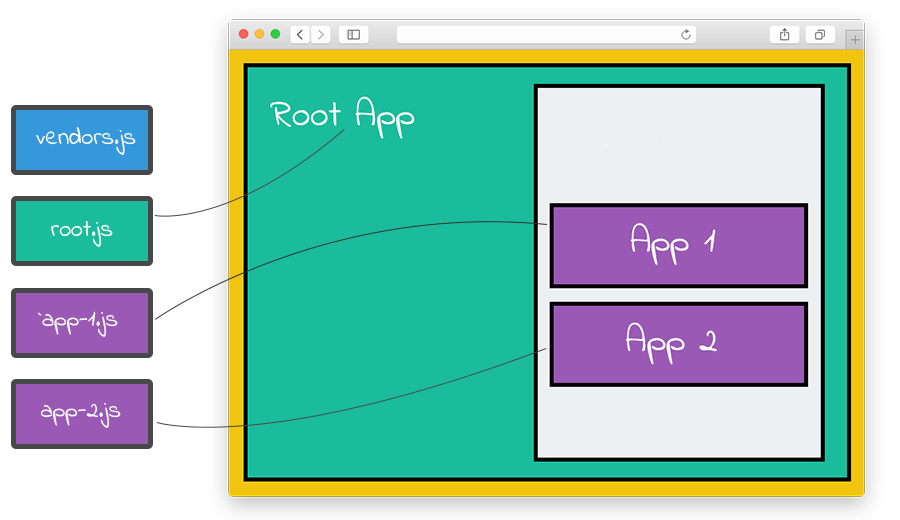
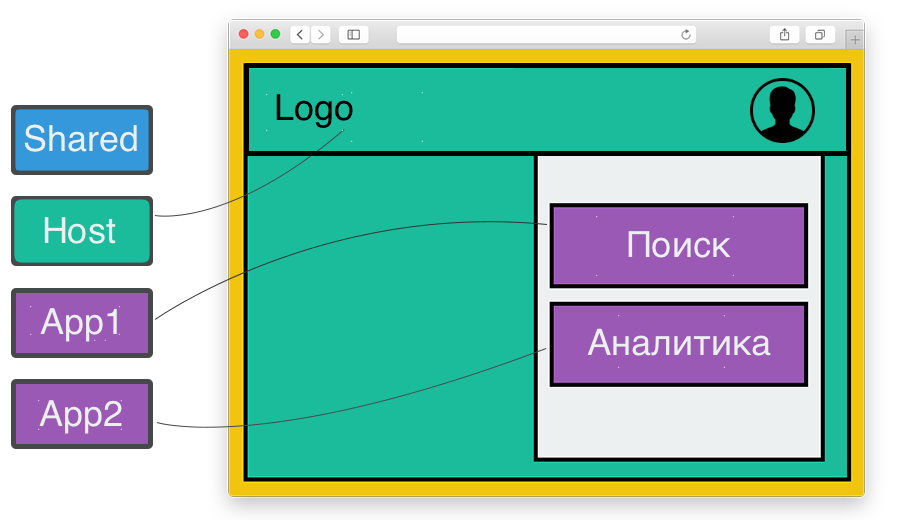
qr-codes

diff --git a/slides/microfrontend/index.html b/slides/microfrontend/index.html
@@ -22,11 +22,11 @@
 				</section>
 				<section>
 					<section>
-						<h2>Коротко о себе</h2>
+						<h2>Кто этот парень?</h2>
 					</section>
 					<section>
 						<h3>Артём Халецкий</h3>
-						<p class="fragment">Веб-разработчик<br/><br/></p>
+						<p class="fragment">Главный разработчик в Иннотех<br/><br/></p>
 						<p class="fragment">other 10 лет опыта,</p>
 						<p class="fragment">пишу на React для веба,</p>
 						<p class="fragment">на React Native для мобилок,</p>
@@ -41,7 +41,8 @@
 					</section>
 					<section>
 						<ol>
-							<li>Зачем нам микрофронтенды?</li>
+							<li>Что такое микрофронтенды?</li>
+							<li class="fragment">Зачем они нам?</li>
 							<li class="fragment">Обзор возможных решений</li>
 							<li class="fragment">Webpack Module Federation</li>
 							<li class="fragment">Demo</li>
@@ -51,53 +52,61 @@
 				</section>
 
 				<section>
-				<section>
-					<h2>1. Зачем нам микрофронтенды?</h2>
-				</section>
-				<section data-transition="zoom">
-					<p>Если у вас над проектом работает одна команда -
-						<span style="display: inline-block;" class="fragment"> НЕЗАЧЕМ</span>
-					</p>
-					<p class="fragment">
-						<img height="238" data-src="assets/paraparapam.png" alt="paraparapam">
-					</p>
-				</section>
-				<section>
-				<p class="fragment">Но, если параллельно работают несколько команд, тогда есть плюсы:</p>
-				<ul>
-					<li class="fragment">Слабая связанность</li>
-					<li class="fragment">Меньше кодовая база - проще поддерживать даже новичкам (1 репо - 1 сервис)</li>
-					<li class="fragment">Быстрая сборка и деплой</li>
-					<li class="fragment">Проще тестировать (независимо от других команд)</li>
-				</ul>
-				</section>
-				<section>
-					<ul>
-						<li>Изоляция ошибок - приложение не падает полностью</li>
-						<li class="fragment">Легко делать частичный релиз или проводить A/B тестирование</li>
-						<li class="fragment">Каждый сервис можно писать на разных фреймворках и языках</li>
-					</ul>
-				</section>
-				<section>
-					<p>Есть одно НО, о котором нужно помнить.</p>
-					<p class="fragment">
-						У микрофронтендов нет полной изоляции -
-						<span style="display: inline-block;" class="fragment fade-right"> общий дом,</span>
-						<span style="display: inline-block;" class="fragment fade-right"> события,</span>
-						<span style="display: inline-block;" class="fragment fade-right"> event loop,</span>
-						<span style="display: inline-block;" class="fragment fade-right"> адресная строка.</span>
-					</p>
-				</section>
-				</section>
-
-				<section>
 					<section>
-						<h2>2. Обзор возможных решений</h2>
+						<h2>Что такое микрофронтенды?</h2>
 					</section>
 					<section>
 						<p>
 							<img data-src="assets/code-splitting.png" alt="code-splitting">
 						</p>
+						<p class="fragment">
+							Как микросервисы, только на фронте
+						</p>
+					</section>
+				</section>
+				<section>
+					<section>
+						<h2>Зачем они нам?</h2>
+					</section>
+					<section data-transition="zoom">
+						<p>Если над проектом работает один разработчик или одна команда
+							<span style="display: inline-block;" class="fragment">НЕЗАЧЕМ</span>
+						</p>
+						<p class="fragment">
+							<img height="238" data-src="assets/paraparapam.png" alt="paraparapam">
+						</p>
+					</section>
+					<section>
+					<p class="fragment">Если параллельно работают <br/> несколько команд, тогда есть плюсы:</p>
+					<ul>
+						<li class="fragment">Слабая связанность, как команд так и кода</li>
+						<li class="fragment">Меньше кодовая база - проще поддерживать даже новичкам </li>
+						<li class="fragment">Быстрая сборка и деплой</li>
+						<li class="fragment">Проще тестировать (независимо от других команд)</li>
+					</ul>
+					</section>
+					<section>
+						<ul>
+							<li>Изоляция ошибок - приложение не падает полностью</li>
+							<li class="fragment">Легко делать частичный релиз или проводить A/B тестирование</li>
+							<li class="fragment">Каждый сервис можно писать на разных фреймворках и языках</li>
+						</ul>
+					</section>
+					<section>
+						<p>Есть одно НО, о котором нужно помнить.</p>
+						<p class="fragment">
+							У микрофронтендов нет полной изоляции
+							<span style="display: inline-block;" class="fragment fade-right"> общий дом,</span>
+							<span style="display: inline-block;" class="fragment fade-right"> события,</span>
+							<span style="display: inline-block;" class="fragment fade-right"> event loop,</span>
+							<span style="display: inline-block;" class="fragment fade-right"> адресная строка.</span>
+						</p>
+					</section>
+				</section>
+
+				<section>
+					<section>
+						<h2>Обзор возможных решений</h2>
 					</section>
 					<section>
 						<ul>
@@ -111,7 +120,7 @@
 							<li class="fragment">Linked Spa Pages (<a href="https://nextjs.org/docs/pages/building-your-application/deploying/multi-zones">NextJS Multi Zones</a>)</li>
 							<li class="fragment"><a href="https://single-spa.js.org/">Single SPA</a> like Frameworks (<a href="https://piral.io/">Piral</a>, <a href="https://frint.js.org/">Frint</a>, <a href="https://ragu-framework.github.io/">Ragu</a>)</li>
 							<li class="fragment">Webpack Module Federation</li>
-							<li class="fragment">Что-то своё (долго, дорого, ох...но) </li>
+							<li class="fragment">Что-то своё (долго, дорого, ) </li>
 						</ul>
 					</section>
 					<section>
@@ -138,7 +147,7 @@
 
 				<section>
 					<section>
-						<h2>3. Webpack Module Federation</h2>
+						<h2>Webpack Module Federation</h2>
 					</section>
 					<section>
 						<h2>Кто использует?</h2>
@@ -186,11 +195,13 @@
 						<h2>Диаграммы</h2>
 					</section>
 					<section>
+						Host и Remote приложения
 						<p>
 							<img data-src="assets/host-remote.png" alt="host-remote">
 						</p>
 					</section>
 					<section>
+						Shared modules
 						<p>
 							<img data-src="assets/diagram-mf.png" alt="diagram-mf">
 						</p>
@@ -201,6 +212,25 @@
 					<section data-visibility="hidden">
 						<p>Host - микрофронт, который загружается первым и может подключать модули из других микрофронтов.</p>
 						<p class="fragment">Remote - микрофронт, который предоставляет модули, но так же как и Host, может подключать модули из других Remote.</p>
+					</section>
+
+					<section>
+						<h3>Remote config</h3>
+						<pre>
+							<code class="hljs javascript" data-trim data-line-numbers="|2|3|4-6|7-10">
+								new webpack.container.ModuleFederationPlugin({
+									name: 'app1',
+									filename: 'remoteEntry.js',
+									exposes: {
+										'./Button': './src/components/Button.js',
+									},
+									shared: {
+										react: { singleton: true },
+										'react-dom': { singleton: true },
+									},
+								}),
+							</code>
+						</pre>
 					</section>
 					<section>
 						<h3>Host config</h3>
@@ -215,24 +245,6 @@
 									shared: {
 										react: { singleton: true, eager: true },
 										'react-dom': { singleton: true, eager: true },
-									},
-								}),
-							</code>
-						</pre>
-					</section>
-					<section>
-						<h3>Remote config</h3>
-						<pre>
-							<code class="hljs javascript" data-trim data-line-numbers="|2|3|4-6|7-10">
-								new webpack.container.ModuleFederationPlugin({
-									name: 'app1',
-									filename: 'remoteEntry.js',
-									exposes: {
-										'./Button': './src/components/Button.js',
-									},
-									shared: {
-										react: { singleton: true },
-										'react-dom': { singleton: true },
 									},
 								}),
 							</code>
@@ -258,31 +270,54 @@
 				</section>
 
 				<section>
-					<h2 class="r-fit-text">4. Demo</h2>
+					<h2 class="r-fit-text">Demo</h2>
 					<a href="https://github.com">https://github.com</a>
 				</section>
 
 				<section>
 					<section>
-						<h2>5. Полезные ссылки</h2>
+						<h2>Полезные ссылки</h2>
 					</section>
 					<section>
-						<ul>
-							<li><a href="https://single-spa.js.org/docs/examples">single-spa examples</a></li>
-							<li class="fragment"><a href="https://github.com/module-federation/module-federation-examples">webpack module-federation examples</a></li>
-							<li class="fragment"><a href="https://github.com/jherr/create-mf-app">create-mf-app cli</a></li>
-							<li class="fragment"><a href="https://github.com/module-federation/federation-dashboard">module-federation dashboard</a></li>
-							<li class="fragment"><a href="https://github.com/originjs/vite-plugin-federation">vite federation</a></li>
-							<li class="fragment"><a href="https://github.com/module-federation/rollup-federation">rollup federation</a></li>
-						</ul>
+						<div>
+							<a href="https://github.com/jherr/create-mf-app">CLI для создания module-federation приложений</a>
+						</div><br/>
+
+						<div class="fragment">
+							<a href="https://github.com/module-federation/federation-dashboard">Dashboard для MF приложений</a>
+						</div><br/>
+						<div class="fragment">
+							Примеры:<br/>
+							<a href="https://single-spa.js.org/docs/examples">single spa</a><br/>
+							<a href="https://github.com/module-federation/module-federation-examples">webpack module-federation</a>
+						</div><br/>
+
+						<div class="fragment">
+							Реализация Module Federation в других сборщиках
+							<a href="https://github.com/originjs/vite-plugin-federation">vite federation</a><br/>
+							<a href="https://github.com/module-federation/rollup-federation">rollup federation</a><br/>
+						</div>
+
 					</section>
 				</section>
 				<section>
-					<h2>Есть вопросы?</h2>
+					<h2>Есть вопросы к Артёму?</h2>
 				</section>
 				<section>
 					<h2>Спасибо, Orel Codes!</h2>
-					qr-код
+					<br/>
+					<div style="display: inline-block; width: 29%;">
+						Презентация:<br/><br/>
+						<img data-src="assets/qr-code-slides.gif" alt="qr-code">
+					</div>
+					<div style="display: inline-block; width: 29%;">
+						Демо:<br/><br/>
+						<img data-src="assets/qr-code-demo.gif" alt="qr-code">
+					</div>
+					<div style="display: inline-block; width: 29%;">
+						Новости ИТ в Иннотех и Т1:<br/>
+						<img data-src="assets/qr-code-tg.gif" alt="qr-code">
+					</div>
 				</section>
 			</div>
 		</div>
@@ -297,9 +332,11 @@
 			// - https://revealjs.com/config/
 			Reveal.initialize({
 				hash: true,
-
+				progress: true,
+				slideNumber: "c/t",
+				controlsLayout: 'bottom-right',
 				// Learn about plugins: https://revealjs.com/plugins/
-				plugins: [ RevealMarkdown, RevealHighlight, RevealNotes ]
+				plugins: [ RevealHighlight ]
 			});
 		</script>
 	</body>
